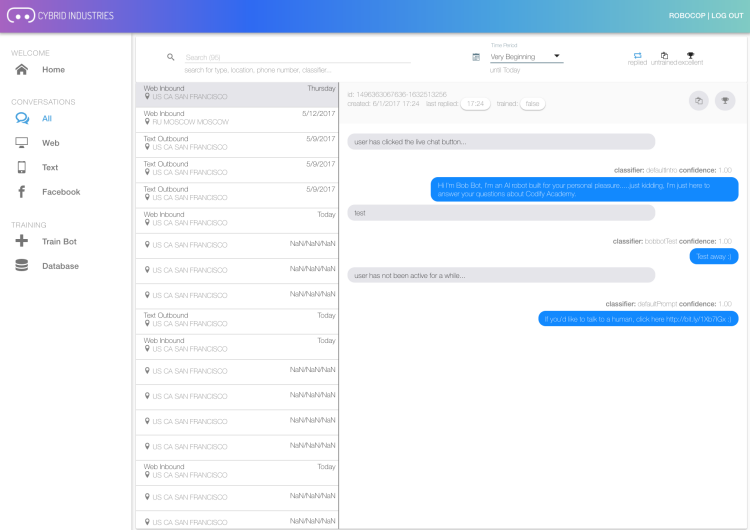
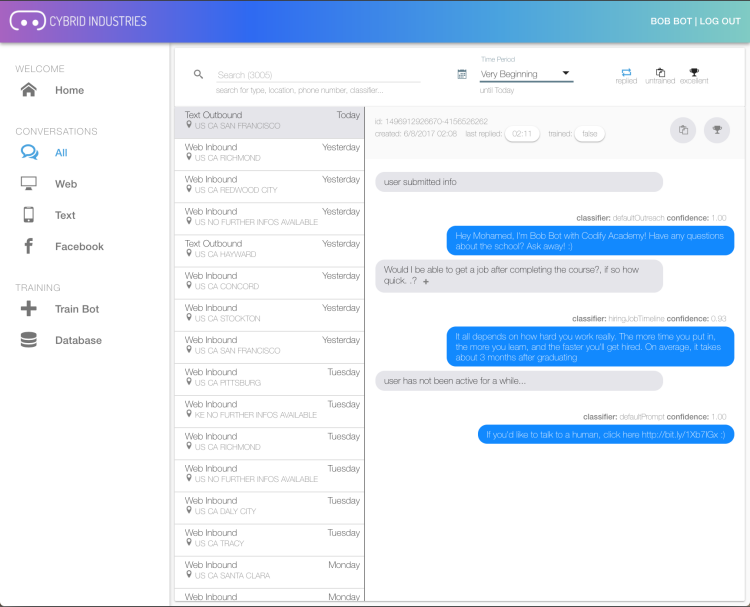
update content

diff --git a/index.html b/index.html
@@ -99,7 +99,7 @@
               <i data-wow-delay="0.1s" class="fa wow fadeInDown">
                 <img src="img/initial_white_trans.png" alt="kt initials" id="initials" height="56px" width="56px">
               </i>
-              <h1 class="wow zoomIn"><span class="name"><span class="fn">kristina traeger</span></span><span class="animated-letters category"><b class="is-visible">developer</b><b>entrepreneuer</b><b>tech hippie</b></span></h1>
+              <h1 class="wow zoomIn"><span class="name"><span class="fn">kristina traeger</span></span><span class="animated-letters category"><b class="is-visible">developer</b><b>entrepreneur</b><b>tech hippie</b></span></h1>
               <div class="separator wow zoomIn"></div>
             </header>
 
@@ -137,8 +137,7 @@
               <p>To enrich my contribution to this process, I decided to learn how to code. I quickly fell in
                 love with JavaScript and its libraries like Node.js and Angular.js.
               <p>I combine my international experience in business management and technical development
-                to build product experiences that excite users. I recently launched my first AI product,
-                i run a food lifestyle business, I am passionate about fashion, veganism,
+                to build product experiences that excite users. I recently launched my first AI product, I am passionate about fashion, veganism,
                 community building &amp; empowering women to pursue their dreams.
 
               <p>My peers describe me as bright, compassionate, determined to succeed.
@@ -152,7 +151,7 @@
                 <li><a href="https://github.com/kristraeger"><i class="fa fa-github"></i></a></li>
                 <li><a href="http://codepen.io/kristraeger/"><i class="fa fa-codepen"></i></a></li>
                 <li><a href="https://www.linkedin.com/in/kristinatraeger"><i class="fa fa-linkedin"></i></a></li>
-                <li><a href="https://www.producthunt.com/@kristraeger"><i class="fa fa-product-hunt"></i></a></li>
+                <!-- <li><a href="https://www.producthunt.com/@kristraeger"><i class="fa fa-product-hunt"></i></a></li> -->
                 <li><a href="https://twitter.com/kristraeger"><i class="fa fa-twitter"></i></a></li>
                 <li><a href="https://www.instagram.com/kristraeger/"><i class="fa fa-instagram"></i></a></li>
 
@@ -395,19 +394,28 @@
                 <figure><img src="img/work-photo-8.jpg" width="750" height="408" alt=""></figure>
                 <div class="popup-inner">
                   <h3>Cybrid Industries - Do it with robots!</h3>
-                  <p>A.I. Sales Assistant built using node.js, socket.io and the IBM Watson API. More than 20k sales conversations for 3 different companies!
+                  <p>Cybrids are A.I. Sales Assistants i built using node.js, socket.io and the IBM Watson API.
+                    Branding, design, code of website and the scalable cybrid technology are my own.
+                    More than 20k sales conversations for 3 different companies! Want to learn more?
+                    Go to the site and talk to Cedric, the Cybrid!
                   </p>
                   <div class="center"><a href="http://www.cybridindustries.com/" target="_blank" class="btn">Test App</a></div>
                 </div>
               </div>
             </li>
-            <li data-groups="[&quot;apps&quot;]" class="works-item"><a href="#works-item-details-10" class="works-item-link"><span class="works-item-thumb"><img src="img/work-thumb-10.png" width="250" height="250" alt=""></span></a>
+            <li data-groups="[&quot;apps&quot;]" class="works-item"><a href="#works-item-details-10" class="works-item-link"><span class="works-item-thumb"><img src="img/work-thumb-10_2.png" width="250" height="250" alt=""></span></a>
               <div id="works-item-details-10" class="popup mfp-hide">
                 <figure><img src="img/work-photo-10.png" width="750" height="563" alt=""></figure>
                 <div class="popup-inner">
-                  <h3>Bot Dashboard - Real time training & tracking of your "Cybrid"</h3>
-                  <p>Chat Bot CRM system for cybrid industries. Log in using demo@cybridindustries.com; password: ilovecybrids</p>
-                  <p>Using Angular, Angular Material, Firebase, Node.js </p>
+                  <h3>Bot Dashboard - Real time tracking &amp; training of your "Cybrid"</h3>
+                  <p>Chat Bot CRM system for Cybrid Industries. Follow all conversations in realime, track KPI's and manage the "bot brain", all in one application.
+                    <br>
+                    <br>
+                    Log in using demo@cybridindustries.com; password: ilovecybrids
+                    <br>
+                    <br>
+                    Using Angular, Angular Material, Firebase, Node.js
+                  </p>
                   <div class="center"><a href="http://dashboard.cybridindustries.com/"  target="_blank" class="btn">Test App</a></div>
                 </div>
               </div>
@@ -417,8 +425,13 @@
                 <figure><img src="img/work-photo-7.jpg" width="750" height="410" alt=""></figure>
                 <div class="popup-inner">
                   <h3>Stulle - Baking Bread Made Easy!</h3>
-                  <p>Designed & coded done withing 24 hrs, the night before my business partner and I launched at Maker Faire 2016. We got a hundred orders within 4 hours!
-                    We maintainted this lifestyle business for almost two years before bureaucracy around food startups and sales permission restrictions broke our spirit *very sad face*.
+                  <p>I miss German bread! So my business partner and i developed an easy-to-bake-at-home recipe for heahlty, sugar-free, nutricious bread.
+                    <br>
+                    <br>
+                    I designed &amp; coded our home page within 24 hrs, the night before my business partner and I launched at Maker Faire 2016. We got a hundred orders within 4 hours!
+                    <br>
+                    <br>
+                    We maintainted this lifestyle business for almost two years before we decided to put it down due to legal and regulatory issues we weren't able to solve *very sad face*.
                     Take a look at my most precious and very personal (failed) project!
                   </p>
 
@@ -517,6 +530,13 @@
 
           <div class="slideshow testimonials">
             <blockquote>
+              <p>Kristina is phenomenal. Working with her inspired the team to put in double the effort just to keep up with the amount of work she would produce.
+                Kristina has a very broad range of knowledge in development. Her skills were highly recognized by her peers and leads alike.
+                Kristina was a great mentor, her dedication and commitment as a developer is rare.</p>
+              <div class="author">Jasmine Martin / Blue Rocket</div>
+              <div class="site-photo"><img src="img/testimonial-photo-4.jpg" width="70" height="70" alt="testimonial 4"></div>
+            </blockquote>
+            <blockquote>
               <p>I worked very closely with Kristina. She is dedicated, hardworking, and equally talented. Kristina consistently performs above and beyond and she had a profound impact on the quality of the product, demonstrating in-depth understanding of our apps and then transforming this knowledge to benefit users. I give Kristina my full endorsement.</p>
               <div class="author">Adam Qwan / Genia Technologies</div>
               <div class="site-photo"><img src="img/testimonial-photo-2.jpg" width="70" height="70" alt="testimonial 2"></div>
@@ -526,11 +546,11 @@
               <div class="author">Alexander Seyfert / Yahoo</div>
               <div class="site-photo"><img src="img/testimonial-photo-3.jpg" width="70" height="70" alt="testimonial 3"></div>
             </blockquote>
-            <blockquote>
+            <!-- <blockquote>
               <p>I've never met someone who's more addicted to coding than Kristina! She's not only fun to hang out with but the quality of her work is outstanding. No matter how late at night, Kristina doesn't stop until it's done. She is an inspiration to our students!</p>
               <div class="author">Matt Brody / Codify</div>
               <div class="site-photo"><img src="img/testimonial-photo-1.jpg" width="70" height="70" alt="testimonial 1"></div>
-            </blockquote>
+            </blockquote> -->
 
 
           </div>
